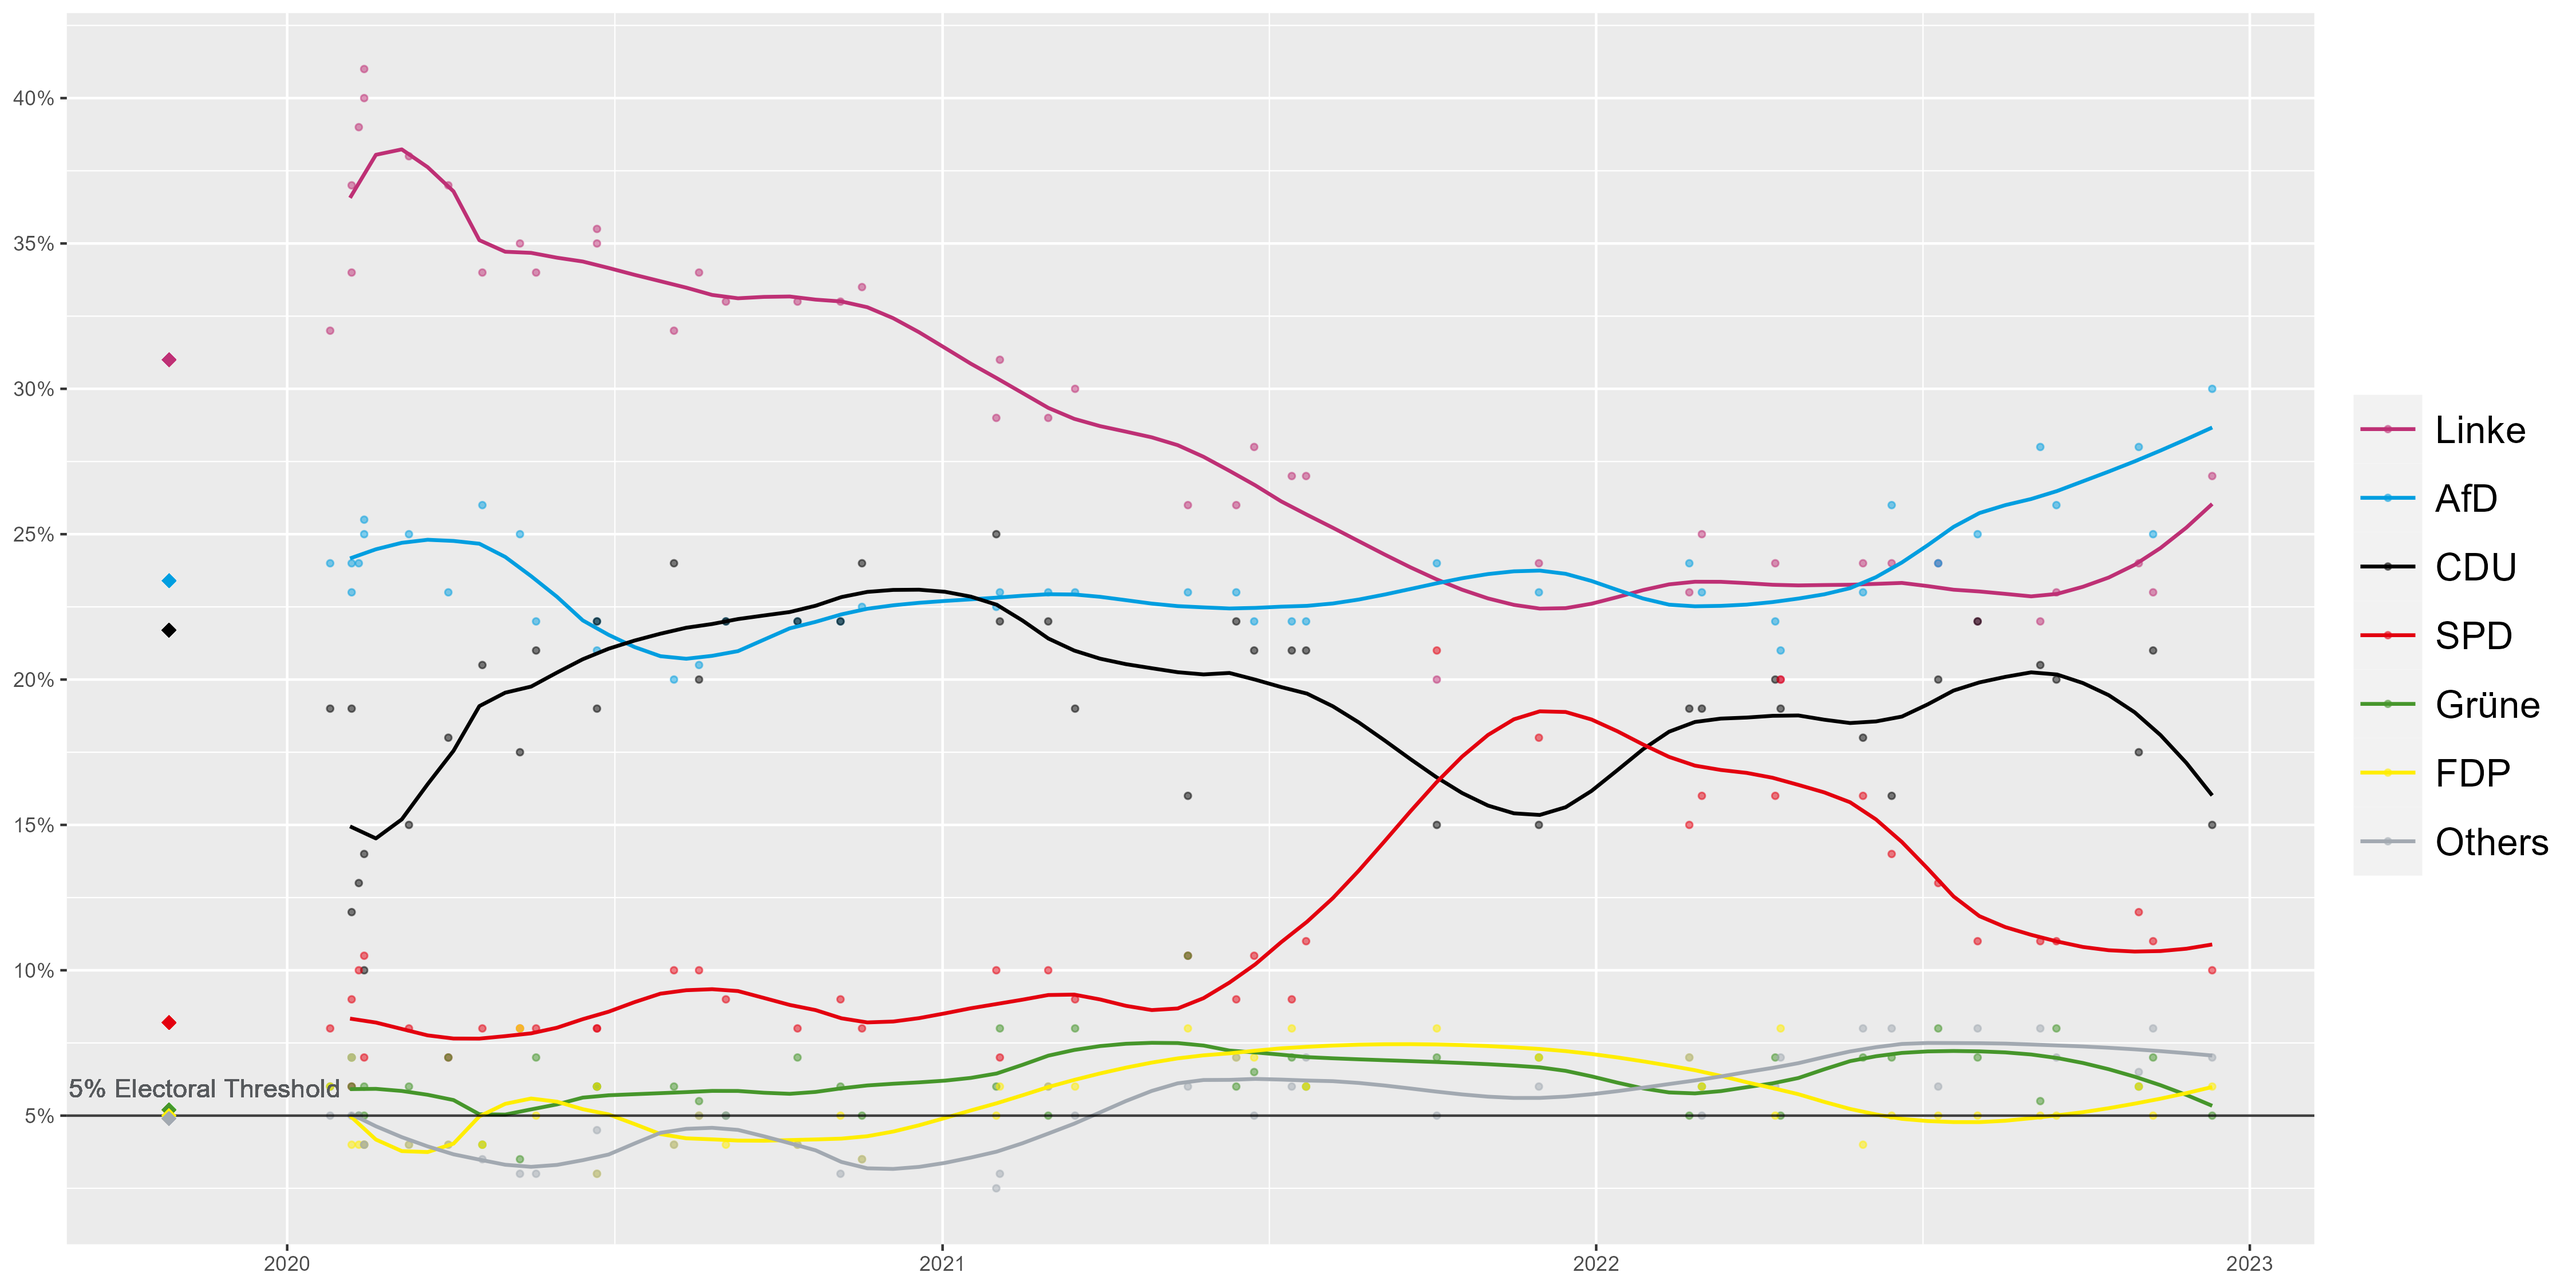
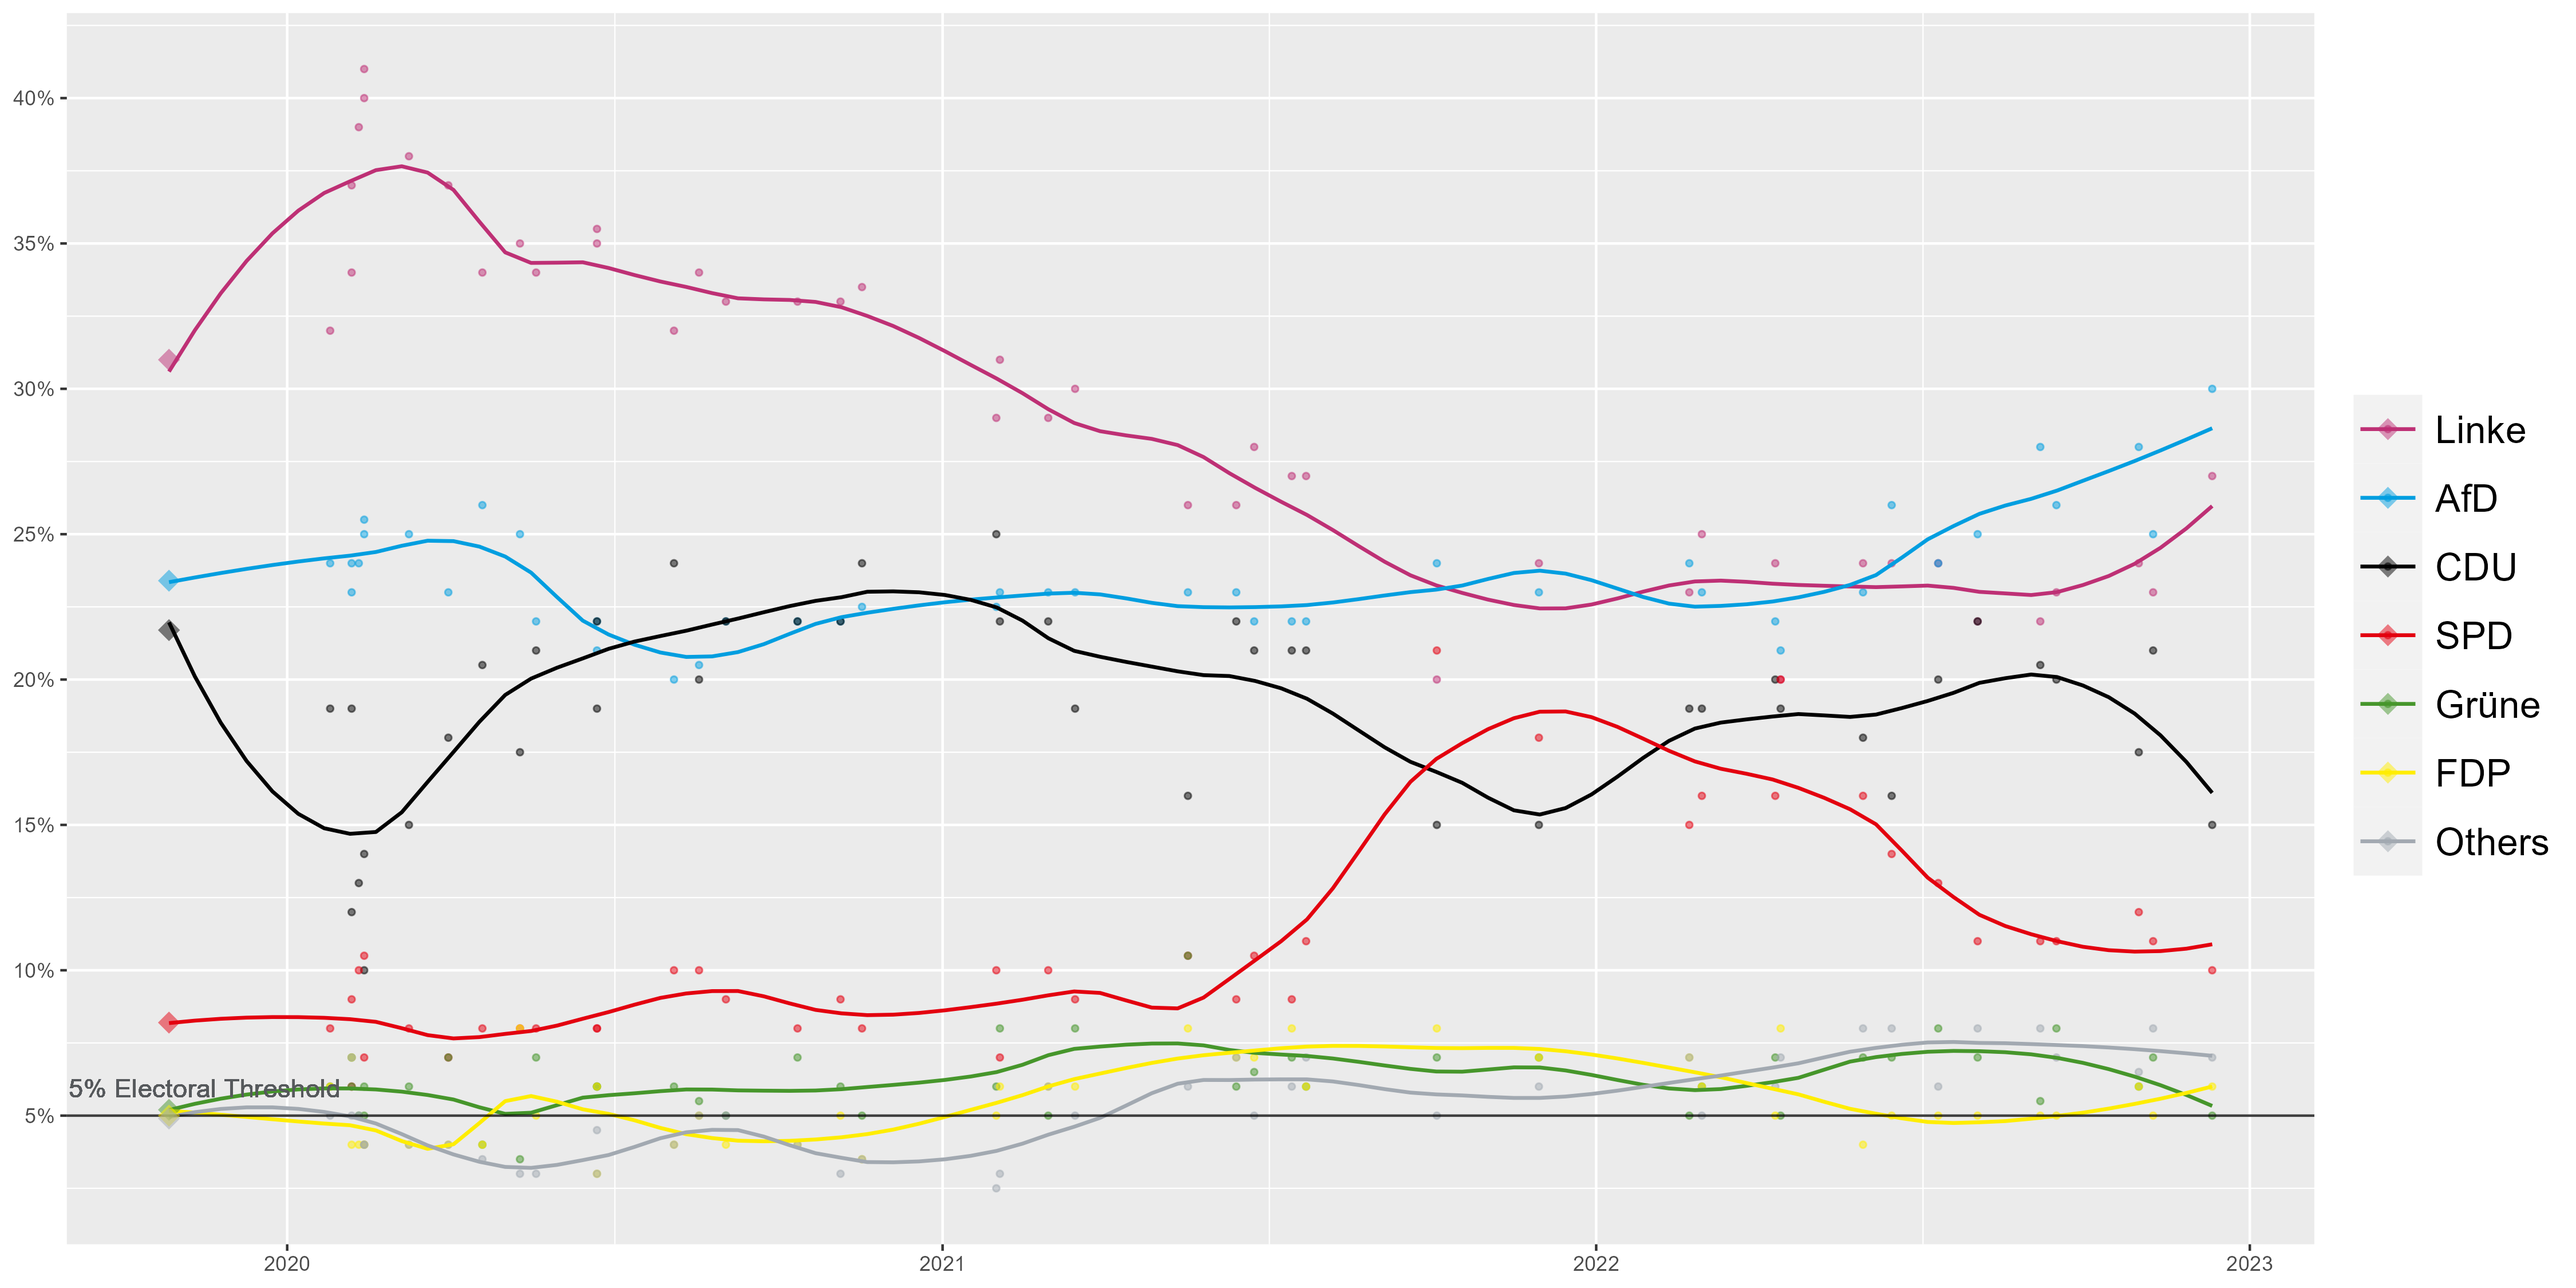
Thuringia Alternative

diff --git a/German_Elections/Thuringia/data.py b/German_Elections/Thuringia/data.py
@@ -18,7 +18,6 @@ data22.columns = headers
 data22['Date'] = [x.strip()[-11:] for x in data22['Date'].astype(str)]
 data22['Date'] = [x.replace('–','') for x in data22['Date'].astype(str)]
 data22=data22[~data22.Date.str.contains("26 Sep 2021")]
-data22=data22[~data22.Date.str.contains("27 Oct 2019")]
 
 print(data22)
 data22.to_csv('German_Elections/Thuringia/poll.csv', index=False)
